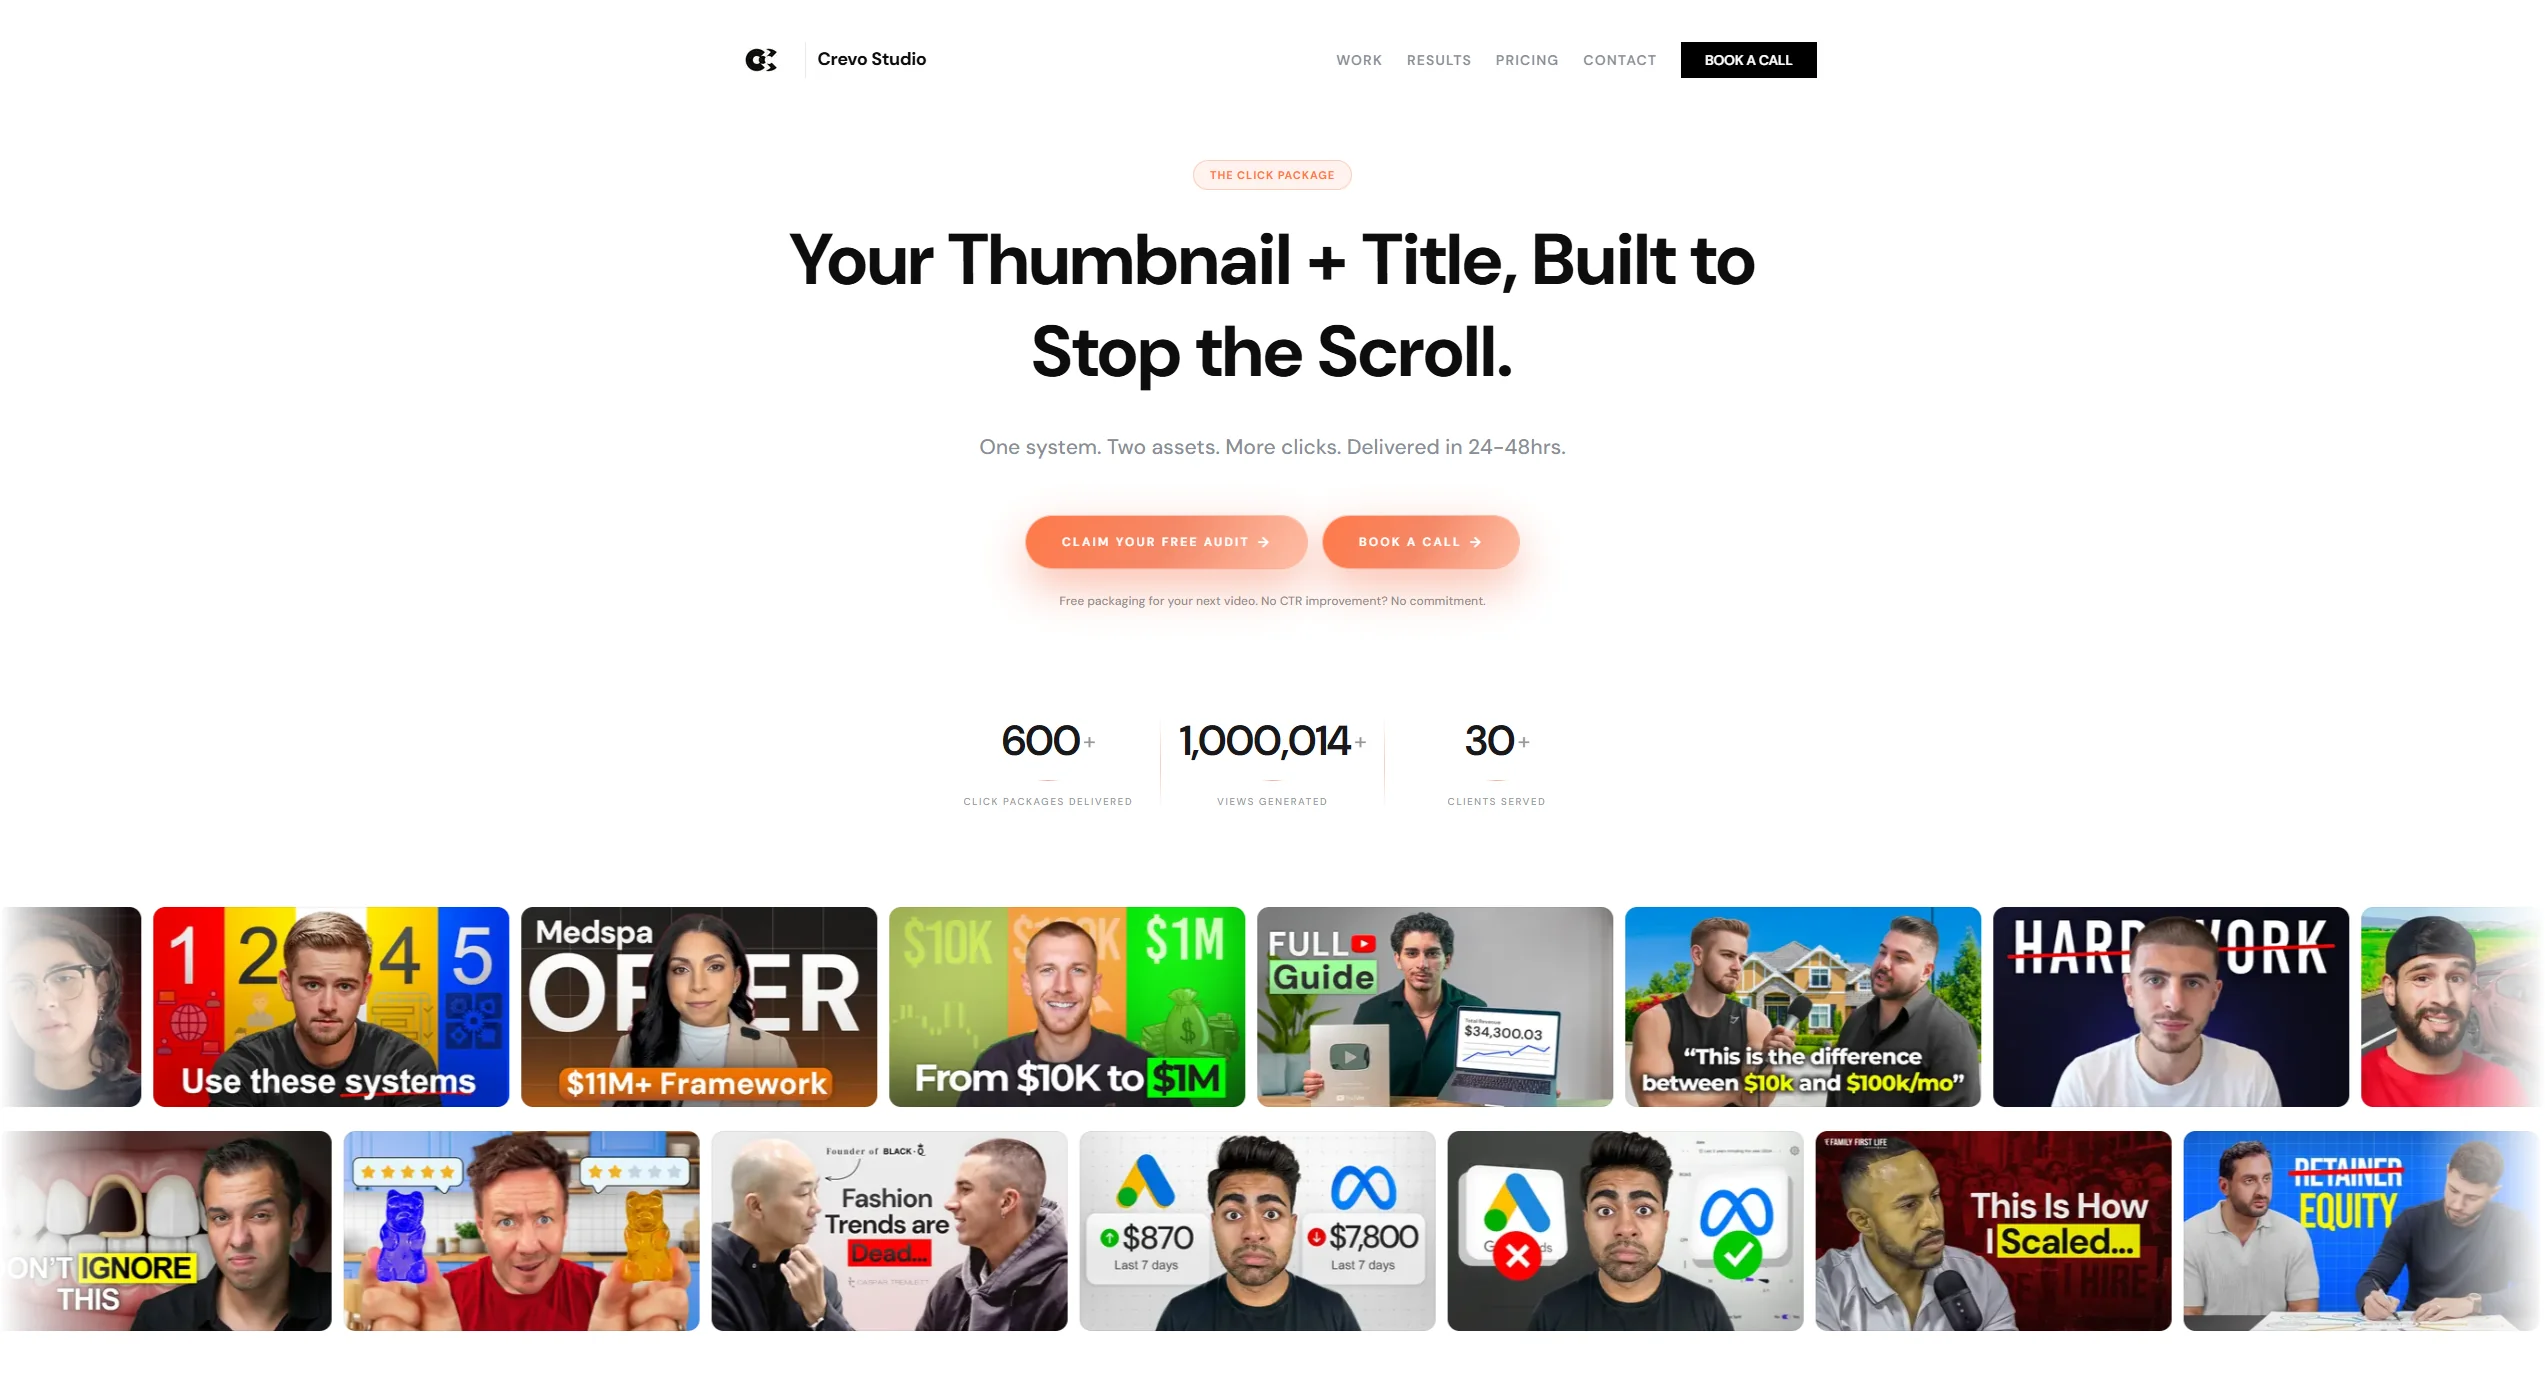
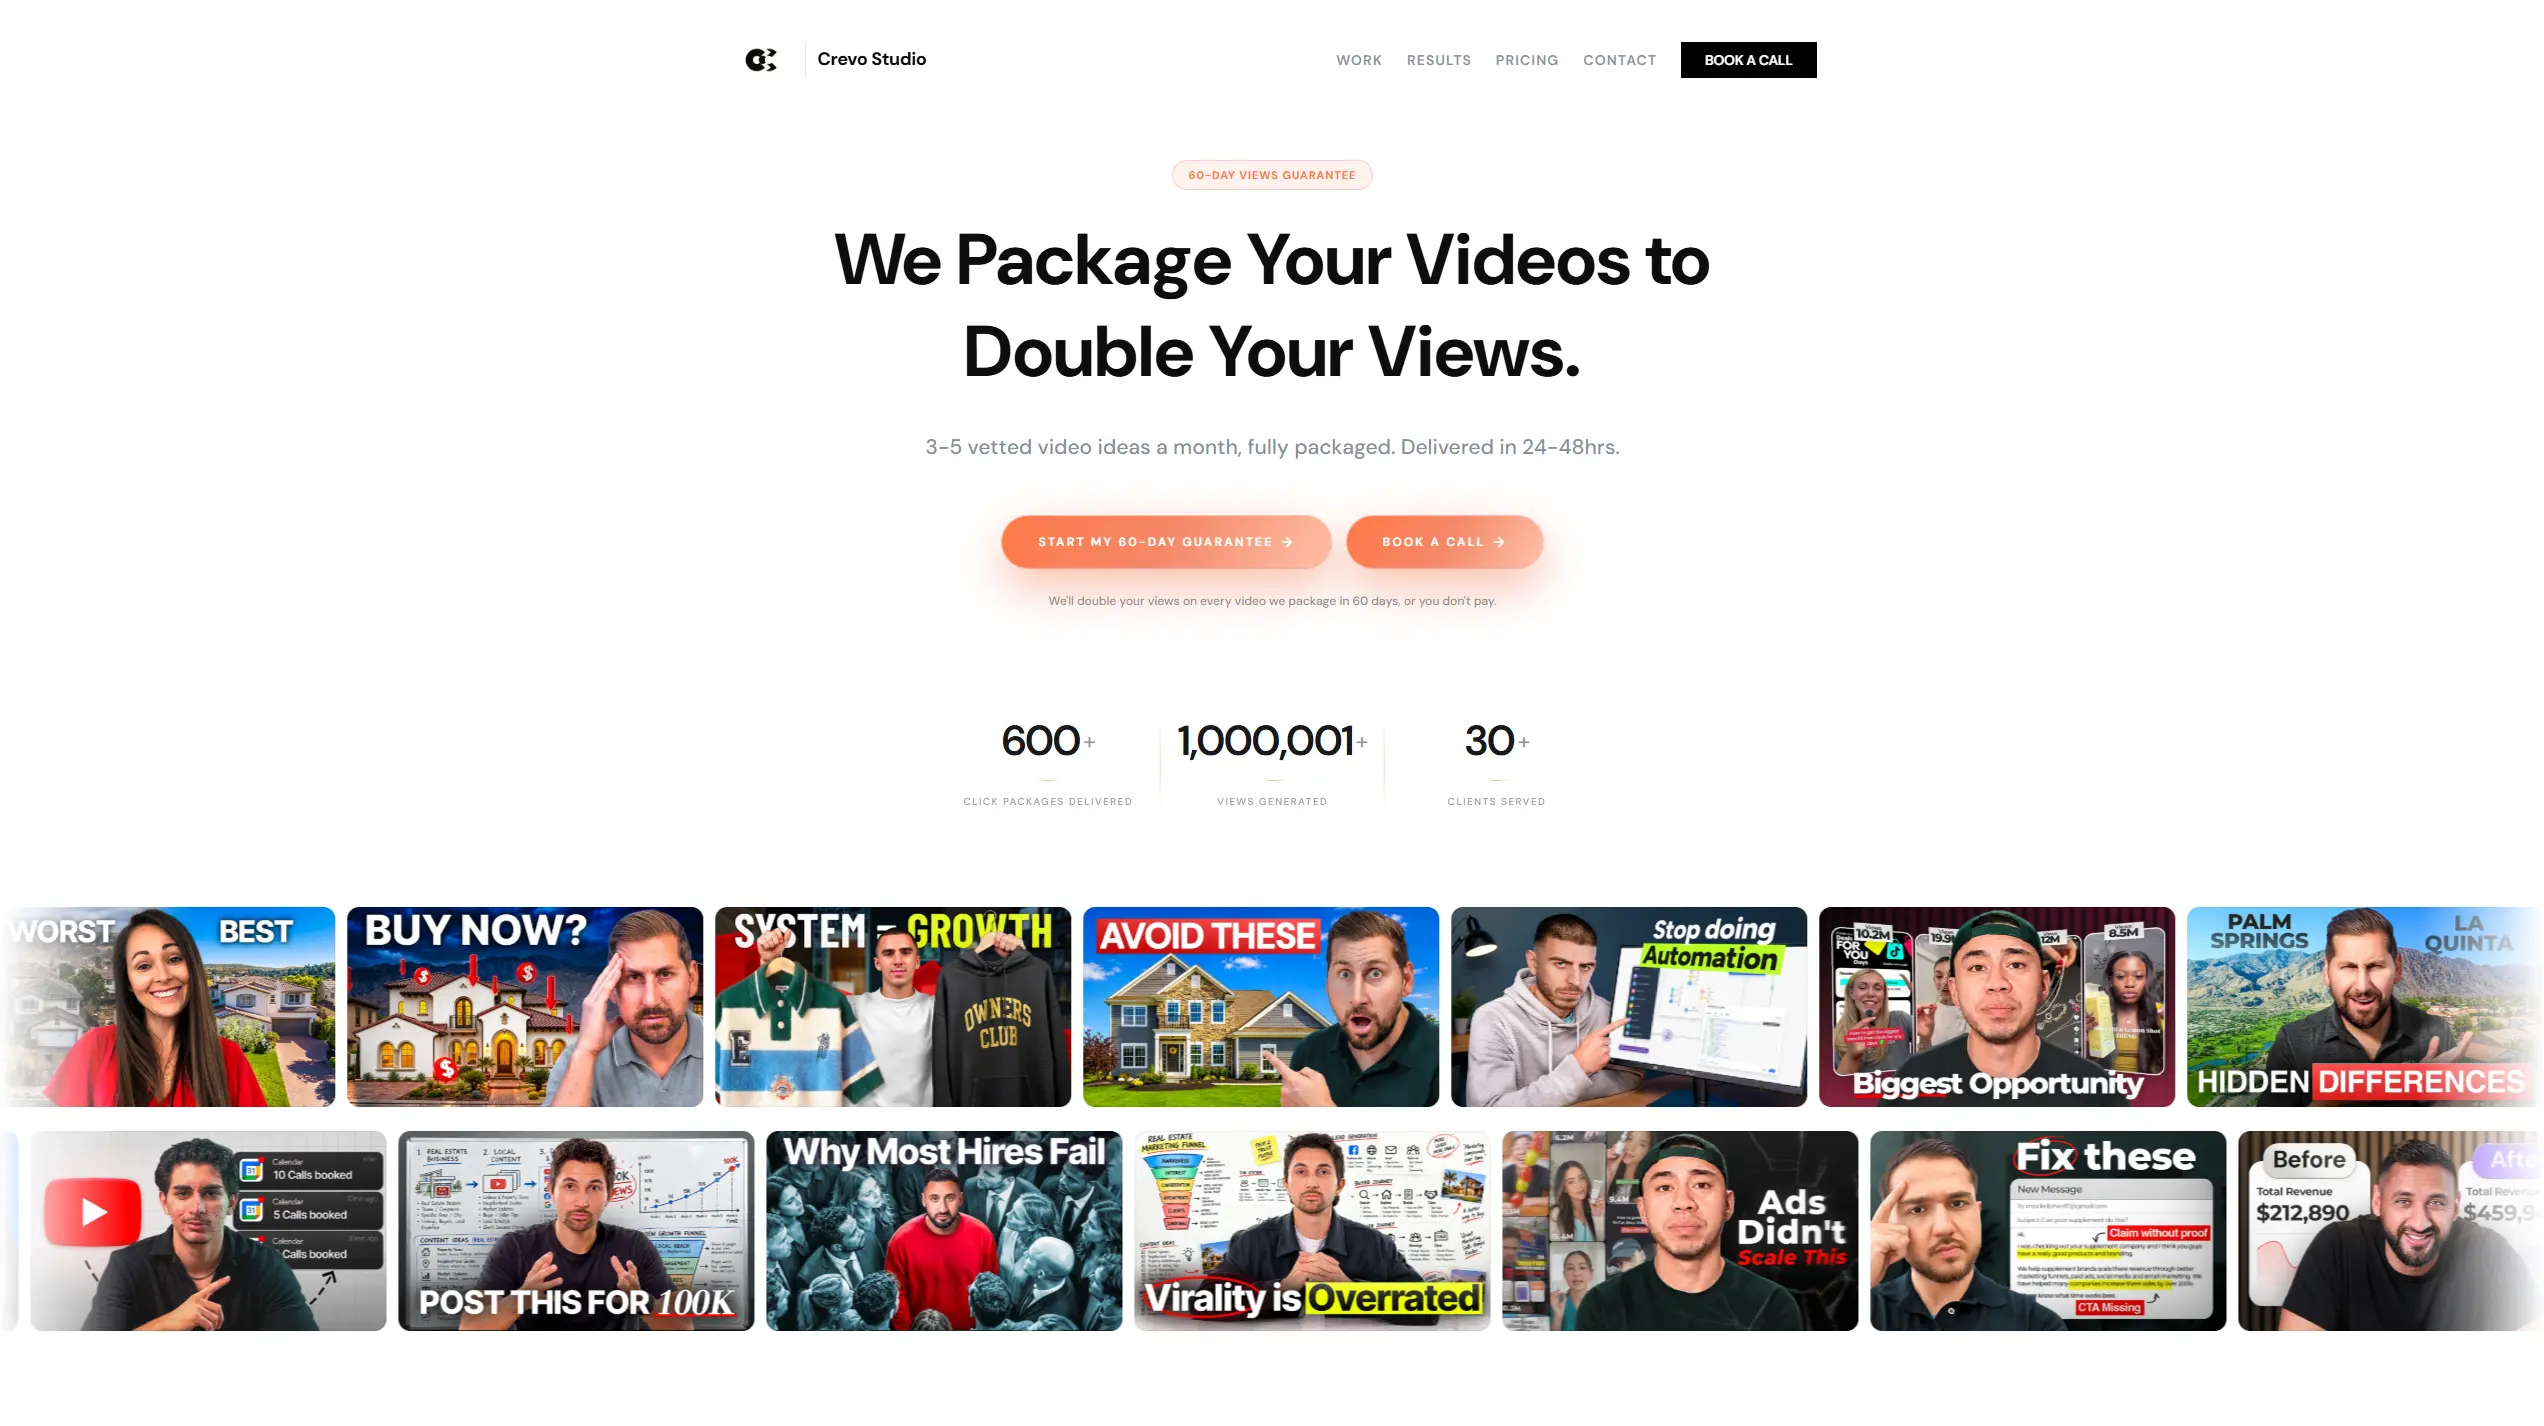
link update

diff --git a/lib/featured-projects.ts b/lib/featured-projects.ts
@@ -1,4 +1,4 @@
-export type FeaturedProject = {
+export type FeaturedProject = {
   id: string
   title: string
   description: string
@@ -200,7 +200,7 @@ const _featuredProjects: FeaturedProject[] = [
     longDescription: "Dem's Portfolio is a beautifully crafted showcase of thumbnail design work, built to highlight their creative process and artistic vision. The website features a modern, minimalist design that puts the focus on the artwork while maintaining excellent user experience. It includes a dynamic gallery of thumbnail designs, case studies of successful projects, and a seamless contact system for potential clients.",
     tags: ["Portfolio", "Design", "Thumbnails", "Creative", "UI/UX"],
     image: "/assets/projects/dem-portfolio.webp",
-    demoLink: "https://dems8.com",
+    demoLink: "http://demproductions.co/",
     githubLink: "https://github.com/AdvaittK/dem-portfolio",
     features: [
       "Dynamic gallery of thumbnail designs",

diff --git a/app/projects/page.tsx b/app/projects/page.tsx
@@ -280,7 +280,7 @@ export default function ProjectsPage() {
       longDescription: "Dem's Portfolio is a beautifully crafted showcase of thumbnail design work, built to highlight their creative process and artistic vision. The website features a modern and minimalist design.",
       tags: ["Portfolio", "Design", "Thumbnails", "Creative", "UI/UX", "Showcase"],
       image: "/assets/projects/dem-portfolio.webp",
-      demoLink: "https://dems8.com",
+      demoLink: "http://demproductions.co/",
       githubLink: "https://github.com/AdvaittK/dem-portfolio",
       showSourceCode: false,
       features: [

diff --git a/lib/testimonials-data.ts b/lib/testimonials-data.ts
@@ -77,7 +77,7 @@ export const testimonials: Testimonial[] = [
     image: "/assets/people/dem.webp",
     content:
       "Advait did an amazing job creating my website! He's super passionate about his work and delivered exactly what I wanted. Communication was quick and friendly, and the entire process was faster than expected. I'm totally happy with the result... highly recommended!",
-    projectLink: "https://www.dems8.com/",
+    projectLink: "http://demproductions.co/",
   },
   {
     name: "Srihita Vanguri",
